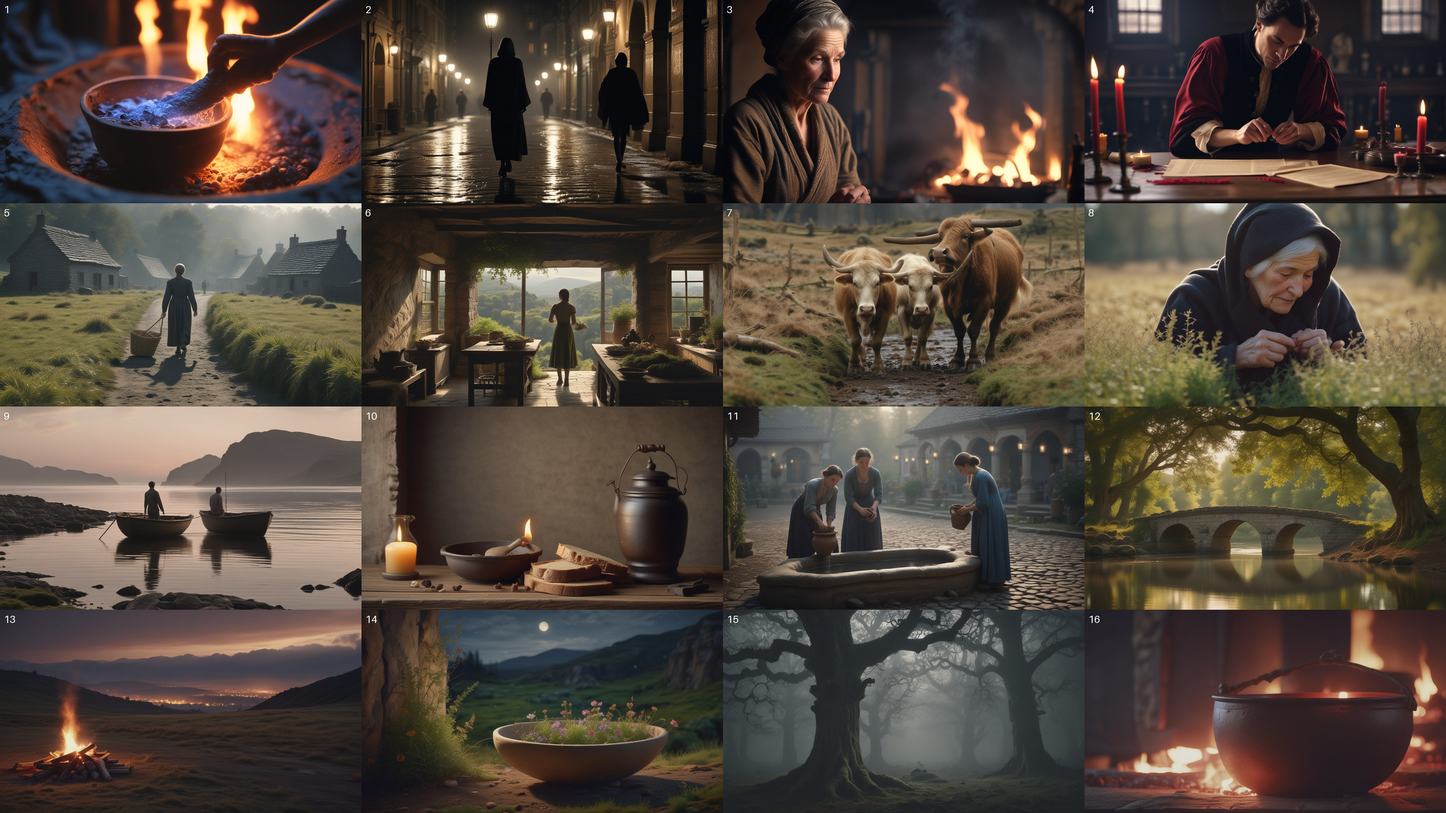
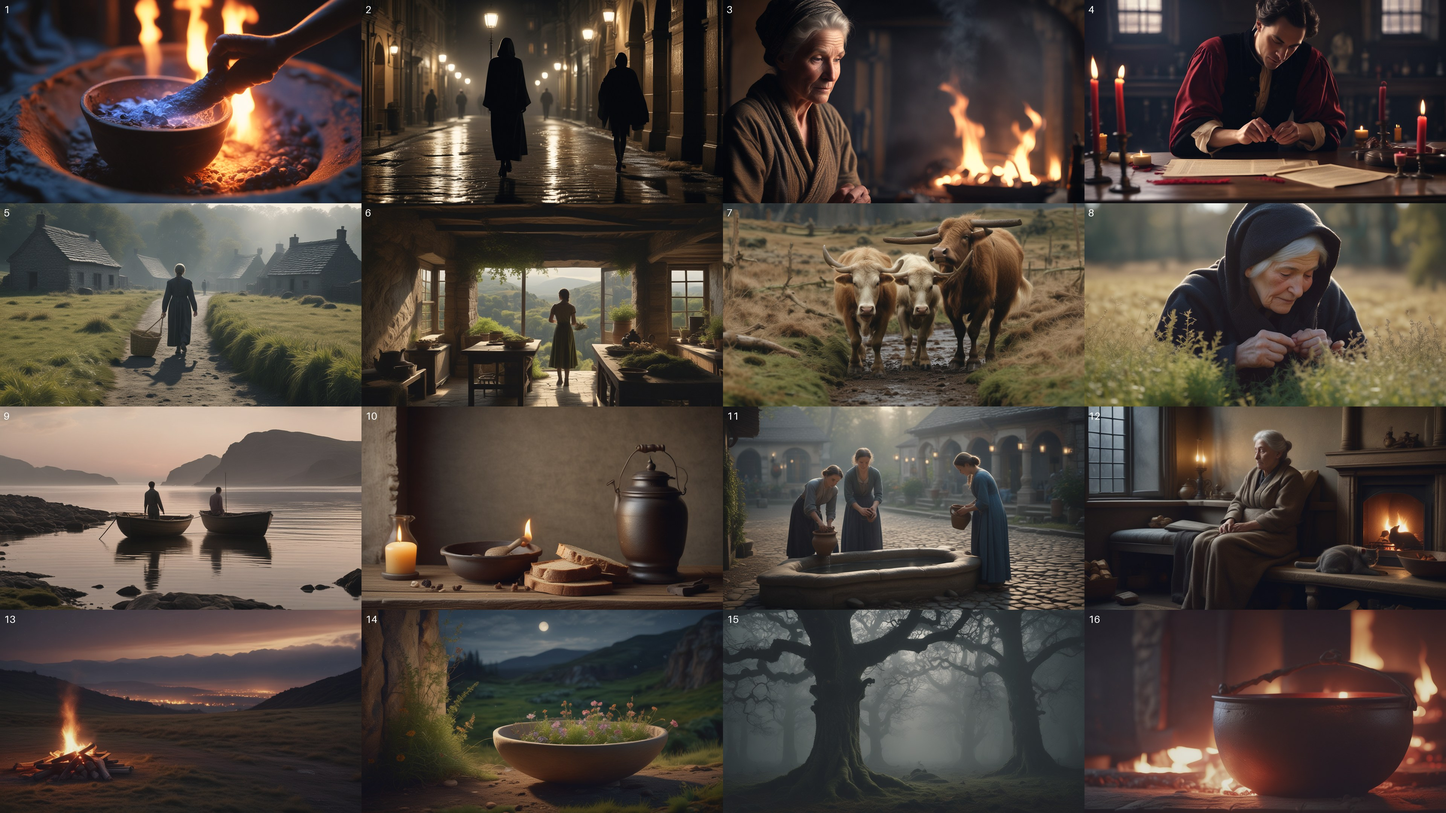
Gauntlet 3: visual: folla r1 cos topes de arquetipos á escala do episodio (150 planos): plano 12 volve ao prompt; o 15 vai á reserva pola separación mínima entre arquetipos; primeira pasada gardada
Claude-Session: https://claude.ai/code/session_01BD94yPJF6iT3xx11HfzUbG

Changed region(s): [[0.75, 0.4963, 1.0, 0.7755]]

diff --git a/plan-de-negocio/gauntlet3/visual/r1/porta_primeira_pasada_tope16.md b/plan-de-negocio/gauntlet3/visual/r1/porta_primeira_pasada_tope16.md
@@ -1,6 +1,6 @@
 # Puerta de revisión de la hoja de prueba (automático)
 
-Modelo `lightning` (1344x768, 4 pasos), estilo `filme`, revisor versión 5. Generación + revisión: 4.7 min de reloj; gradación 10 s.
+Modelo `lightning` (1344x768, 4 pasos), estilo `filme`, revisor versión 5. Generación + revisión: 24.4 min de reloj; gradación 10 s.
 
 | Plano | Fase | Tipo | Intentos | Problemas de los intentos rechazados | Escogida | s generación | s revisión |
 |---|---|---|---|---|---|---|---|
@@ -15,12 +15,12 @@ Modelo `lightning` (1344x768, 4 pasos), estilo `filme`, revisor versión 5. Gene
 | 9 | calma | paisaxe | 1 | - | 0 (ok) | 33.0 | 17.1 |
 | 10 | calma | bodegon | 1 | - | 0 (ok) | 33.2 | 16.9 |
 | 11 | calma | plano_medio | 1 | - | 0 (ok) | 36.5 | 19.2 |
-| 12 | calma | contraluz | 1 | - | 0 (ok) | 44.6 | 20.1 |
+| 12 | calma | contraluz | 4 | 0: arquetipo repetido: persoa á lareira (1 xa, tope 1); 1: interior moderno, arquetipo repetido: persoa á lareira (1 xa, tope 1); 5: tellados laranxas | 3 (ok, reserva) | 31.5, 34.9, 30.5, 32.6 | 17.8, 18.7, 18.2, 19.8 |
 | 13 | durmir | paisaxe | 1 | - | 0 (ok) | 34.5 | 26.1 |
 | 14 | durmir | bodegon | 1 | - | 0 (ok) | 35.9 | 16.3 |
-| 15 | durmir | plano_medio | 3 | 0: arquetipo seguido: persoa á lareira (xa no plano 11); 1: arquetipo seguido: persoa á lareira (xa no plano 11) | 2 (ok, reserva) | 37.4, 36.6, 37.1 | 18.8, 18.6, 17.9 |
+| 15 | durmir | plano_medio | 3 | 0: arquetipo repetido: persoa á lareira (1 xa, tope 1); 1: arquetipo repetido: persoa á lareira (1 xa, tope 1) | 2 (ok, reserva) | 31.7, 37.2, 33.9 | 17.7, 17.7, 17.2 |
 | 16 | durmir | detalle | 1 | - | 0 (ok) | 36.9 | 18.7 |
 
-Imágenes generadas: 25 para 16 planos; aprobadas a la primera: 11; tras regenerar: 5; sin aprobar: 0.
-Segundos por imagen (generación): mediana 33.3, media 33.9; revisión: mediana 17.9, media 18.4.
-Rechazos por motivo: {"man sen corpo": 2, "obxectos modernos": 3, "interior moderno": 1, "paisaxe seca": 1, "arquetipo repetido": 1, "arquetipo seguido": 2}.
+Imágenes generadas: 28 para 16 planos; aprobadas a la primera: 10; tras regenerar: 6; sin aprobar: 0.
+Segundos por imagen (generación): mediana 33.2, media 33.0; revisión: mediana 17.8, media 18.3.
+Rechazos por motivo: {"man sen corpo": 2, "obxectos modernos": 3, "interior moderno": 2, "paisaxe seca": 1, "arquetipo repetido": 5, "tellados laranxas": 1}.
